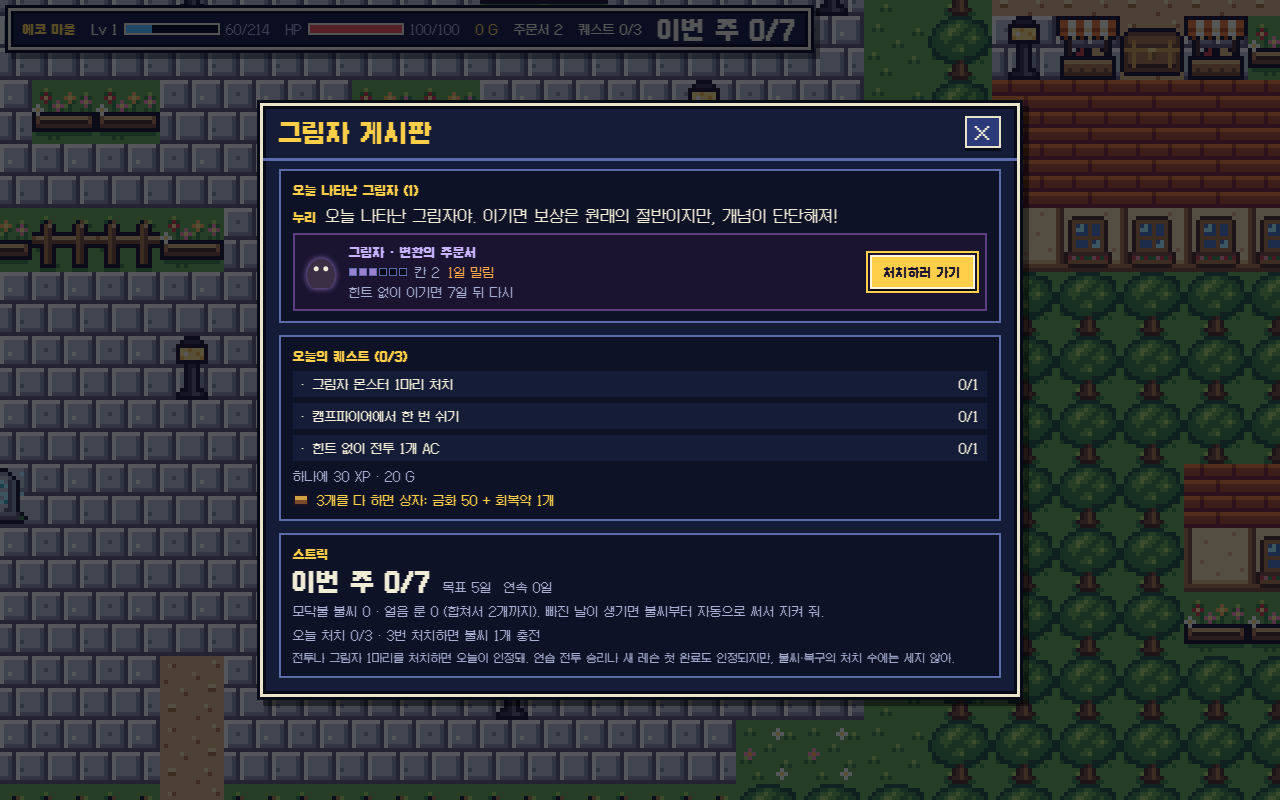
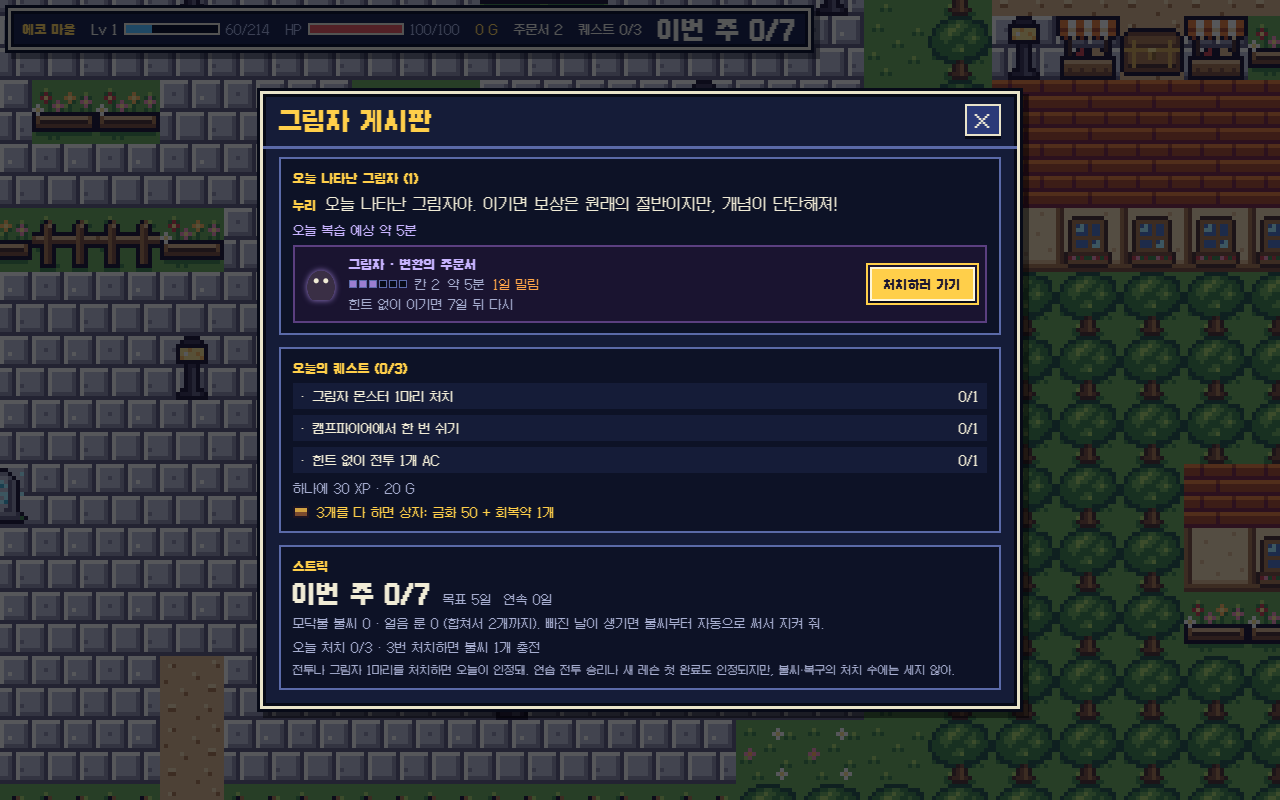
Phase 3 단위 3-E2(검증): 그림자 하루 계획 E2E, 보스 그림자 2페이즈 측정 spec(PYRPG_MEASURE_SHADOW=1), 화면 기록(engine-e2-*.png)

Changed region(s): [[0.1875, 0.0938, 0.8125, 0.9062], [0.75, 0.4688, 0.7812, 0.5938]]

diff --git a/tests/e2e/systems.spec.ts b/tests/e2e/systems.spec.ts
@@ -327,6 +327,137 @@ test.describe.serial("시스템 화면(단위 3-1)", () => {
   });
 });
 
+/** 기기 시간으로 n일 전(새벽 4시 경계) */
+function daysAgo(n: number): string {
+  const d = new Date();
+  if (d.getHours() < 4) d.setDate(d.getDate() - 1);
+  d.setDate(d.getDate() - n);
+  return `${d.getFullYear()}-${String(d.getMonth() + 1).padStart(2, "0")}-${String(d.getDate()).padStart(2, "0")}`;
+}
+
+const AT_BOARD = async (page: Page) => {
+  const gate = await obj(page, "gate_well");
+  return { x: gate.x, y: gate.y - 1 };
+};
+
+async function openBoard(page: Page): Promise<void> {
+  await interact(page, "board_shadow");
+  await settle(page, ".board-modal");
+}
+
+test.describe.serial("그림자 하루 계획(단위 3-E2)", () => {
+  test("게시판: 예산 문구·대기·이름 없는 그림자, 이긴 뒤 정체 공개", async ({ page }) => {
+    test.setTimeout(240_000);
+    await boot(page);
+    await seedAndReload(page, {
+      lessons: ["L1-1", "L1-2", "L1-3"],
+      removed: ["gate_well", "m_P0102", "m_P0104"],
+      at: await AT_BOARD(page),
+      flags: ["trigger.r01.t_prologue", "companion.joined"],
+      patch: {
+        shadows: [
+          // 칸 3: 같은 개념에서 이미 푼 P0102만 후보 → 그 변형, 이름 숨김
+          { concept: "scroll.arith", problemId: "P0102", box: 3, due: daysAgo(2), purified: false, createdAt: "2026-09-01T00:00:00.000Z" },
+          { concept: "scroll.quick_ear", problemId: "P0104", box: 1, due: daysAgo(1), purified: false, createdAt: "2026-09-02T00:00:00.000Z" },
+          // 대표 문제 P0101을 아직 못 이김 → 대기
+          { concept: "scroll.convert", problemId: "P0101", box: 1, due: daysAgo(1), purified: false, createdAt: "2026-09-03T00:00:00.000Z" },
+        ],
+        quests: { date: "today", ids: ["rest-1", "codex-run-1", "lesson-1"], progress: [0, 0, 0], claimed: [false, false, false], chest: false },
+      },
+    });
+    const before = await save(page);
+    await openBoard(page);
+    await expect(page.locator(".shadow-card")).toHaveCount(2);
+    const anon = page.locator(".shadow-card.is-anonymous");
+    await expect(anon).toHaveCount(1);
+    await expect(anon.locator(".shadow-name")).toHaveText("이름 없는 그림자");
+    await expect(anon).toContainText("칸 3");
+    await expect(anon).toContainText("약 5분");
+    await expect(page.locator(".shadow-card:not(.is-anonymous) .shadow-name")).toContainText("그림자 · ");
+    await expect(page.locator(".shadow-budget")).toHaveText("오늘 복습 예상 약 11분");
+    await expect(page.locator(".shadow-pending")).toHaveCount(1);
+    await expect(page.locator(".shadow-pending")).toContainText("원래 몬스터를 이긴 다음 날부터");
+    await shot(page, "engine-e2-board.png");
+
+    // 이름 없는 그림자와 싸운다: 적 이름·제목·시작 대사에 주문서·원래 몬스터가 없다
+    await anon.locator(".board-fight").click();
+    await settle(page, ".battle-modal");
+    await expect(page.locator(".battle.is-shadow")).toBeVisible();
+    await expect(page.locator(".enemy-name")).toHaveText("이름 없는 그림자");
+    await expect(page.locator(".battle-title")).toHaveText("이름 없는 그림자");
+    expect(await page.locator(".battle").getAttribute("data-problem")).toMatch(/^P0102-v\d$/);
+    await expect(page.locator(".act-solution")).toBeHidden();
+    await typeCode(page, solution("P0102"));
+    await cast(page);
+    await expect(page.locator(".battle-banner.is-victory")).toBeVisible();
+    await page.locator(".banner-ok").click();
+    await settle(page, ".reward-modal");
+    await expect(page.locator(".reward-xp .reward-value")).toHaveText("+50 XP");
+    await expect(page.locator(".reward-shadow")).toContainText("정체");
+    await expect(page.locator(".reward-title")).toContainText("의 그림자");
+    await page.locator(".reward-ok").click();
+    await settle(page);
+    const s = await save(page);
+    expect(s.player.xp).toBe(before.player.xp + 50);
+    expect(s.history.at(-1)).toMatchObject({ shadow: true, concept: "scroll.arith", budgetMinutes: 5 });
+
+    // 다시 열면 치른 것만 빠지고, 오늘 치른 분량이 보인다
+    await openBoard(page);
+    await expect(page.locator(".shadow-card")).toHaveCount(1);
+    await expect(page.locator(".shadow-card.is-anonymous")).toHaveCount(0);
+    await expect(page.locator(".shadow-budget")).toHaveText("오늘 복습 예상 약 6분 · 오늘 치른 그림자 약 5분");
+    await closeAll(page);
+  });
+
+  test("칸 3 보스 그림자: 이름 없는 그림자로 2페이즈(공통 대사·시간 결계)까지, 보상 50 XP·25골드", async ({ page }) => {
+    test.setTimeout(300_000);
+    await boot(page);
+    await seedAndReload(page, {
+      lessons: ["L1-1", "L1-2", "L1-3", "L1-4"],
+      removed: ["gate_well"],
+      at: await AT_BOARD(page),
+      flags: ["trigger.r01.t_prologue", "companion.joined", "region.r01.clear"],
+      patch: {
+        problems: { P0105: { attempts: 1, knockouts: 0, solved: true, solvedAt: "2026-09-20T09:00:00.000Z", maxHintLevel: 0, solutionViewed: false } },
+        shadows: [{ concept: "scroll.arith", problemId: "P0105", box: 3, due: daysAgo(1), purified: false, createdAt: "2026-09-01T00:00:00.000Z" }],
+        quests: { date: "today", ids: ["rest-1", "codex-run-1", "lesson-1"], progress: [0, 0, 0], claimed: [false, false, false], chest: false },
+      },
+    });
+    const before = await save(page);
+    await openBoard(page);
+    await expect(page.locator(".shadow-card.is-anonymous")).toHaveCount(1);
+    await expect(page.locator(".shadow-card")).toContainText("약 15분");
+    await expect(page.locator(".shadow-budget")).toHaveText("오늘 복습 예상 약 15분");
+    await page.locator(".board-fight").click();
+    await settle(page, ".battle-modal");
+    await expect(page.locator(".battle.is-shadow.is-boss")).toBeVisible();
+    await expect(page.locator(".enemy-name")).toHaveText("이름 없는 그림자");
+    await expect(page.locator(".phase-label")).toContainText("1페이즈");
+    expect(await page.locator(".battle").getAttribute("data-problem")).toMatch(/^P0105-v\d$/);
+    await typeCode(page, solution("P0105"));
+    await cast(page);
+    // 2페이즈: 원래 보스의 시간 결계 테스트, 공통 대사
+    await expect(page.locator(".phase-label")).toContainText("2페이즈", { timeout: 60_000 });
+    await expect(page.locator(".phase-intro").last()).toBeVisible();
+    await expect(page.locator(".battle-msg")).toContainText("그림자가 시간 결계를 펼쳤어");
+    await shot(page, "engine-e2-anon-boss.png");
+    await cast(page);
+    await expect(page.locator(".battle-banner.is-victory")).toBeVisible({ timeout: 120_000 });
+    await page.locator(".banner-ok").click();
+    await settle(page, ".reward-modal");
+    await expect(page.locator(".reward-xp .reward-value")).toHaveText("+50 XP");
+    await expect(page.locator(".reward-gold .reward-value")).toHaveText("+25 G");
+    await expect(page.locator(".reward-shadow")).toContainText("정체");
+    await page.locator(".reward-ok").click();
+    await settle(page);
+    const s = await save(page);
+    expect(s.player.xp).toBe(before.player.xp + 50);
+    expect(s.player.gold).toBe(before.player.gold + 25);
+    expect(s.shadows[0].box).toBe(4);
+    expect(s.history.at(-1)).toMatchObject({ shadow: true, concept: "scroll.arith", budgetMinutes: 15 });
+  });
+});
+
 test.describe.serial("기록관의 안경(단위 3-4)", () => {
   const msgText = (page: Page) => page.locator(".battle-msg-text");
   const codexLink = (page: Page) => page.locator(".battle-msg-text .codex-link");

diff --git a/tests/e2e/shadow-measure.spec.ts b/tests/e2e/shadow-measure.spec.ts
@@ -1,0 +1,97 @@
+// 칸 3 이상 보스 그림자의 2페이즈 대기 시간 측정(design.md §7.6 보스 그림자, 결정 23 P-E11, 단위 3-E2).
+// 평소 전체 E2E에서는 건너뛴다. 다른 Playwright가 돌지 않을 때 단독으로:
+//
+//   PYRPG_MEASURE_SHADOW=1 PW_PORT=4310 npx playwright test tests/e2e/shadow-measure.spec.ts
+//
+// 보스마다 칸 3 그림자 문제(변형 1페이즈 + 원래 2페이즈)를 만들어 실제 Pyodide로
+// (a) 첫 시전(2페이즈 입력 생성 포함) (b) 두 번째 시전(생성 캐시 사용) (c) slow.py 시전의 벽시계 시간을 잰다.
+// 측정마다 새 페이지(새 실행기, 빈 생성 캐시)에서 3번 재고 중앙값을 쓴다.
+// 제외 기준(P-E11): (a) 20초, (b) 10초, (c) 15초 가운데 하나라도 넘으면 SHADOW_PHASE2_EXCLUDE에 넣는다.
+import { expect, test, type Browser } from "@playwright/test";
+
+/* eslint-disable @typescript-eslint/no-explicit-any */
+const RUNS = 3;
+const LIMITS = { first: 20_000, second: 10_000, slow: 15_000 };
+
+interface Sample {
+  first: number;
+  second: number;
+  slow: number;
+  firstVerdicts: string;
+  secondVerdicts: string;
+  slowVerdicts: string;
+}
+
+async function measureOnce(browser: Browser, pid: string): Promise<Sample> {
+  const page = await browser.newPage();
+  try {
+    page.on("pageerror", (e) => console.log("pageerror:", e.message));
+    await page.goto("/dev/content.html");
+    await page.waitForFunction(() => (window as any).__runner !== undefined && (window as any).__shadow !== undefined);
+    await page.evaluate(() => (window as any).__runner.init());
+    return await page.evaluate(async (id: string) => {
+      const W = window as any;
+      const original = W.__content.regions.flatMap((r: any) => r.problems).find((p: any) => p.id === id);
+      const p = W.__shadow.shadowProblem(original, [], { twoPhase: true, anonymous: true });
+      const slowCode: string = W.__py[id]["slow.py"];
+      const verdicts = (r: any) => r.tests.map((t: any) => t.verdict).join(" ");
+      const cast = async (code: string) => {
+        const t0 = performance.now();
+        const r = await W.__runner.judge(p, code, { scope: "all", phase: 2 });
+        return { ms: performance.now() - t0, v: verdicts(r) };
+      };
+      const a = await cast(original.solution);
+      const b = await cast(original.solution);
+      const c = await cast(slowCode);
+      return { first: a.ms, second: b.ms, slow: c.ms, firstVerdicts: a.v, secondVerdicts: b.v, slowVerdicts: c.v };
+    }, pid);
+  } finally {
+    await page.close();
+  }
+}
+
+const median = (xs: number[]) => [...xs].sort((a, b) => a - b)[Math.floor(xs.length / 2)]!;
+
+test("보스 그림자 2페이즈 대기 시간(P-E11)", async ({ browser }) => {
+  test.skip(!process.env.PYRPG_MEASURE_SHADOW, "PYRPG_MEASURE_SHADOW=1일 때만 잰다");
+  test.setTimeout(60 * 60_000);
+  const page = await browser.newPage();
+  await page.goto("/dev/content.html");
+  await page.waitForFunction(() => (window as any).__content !== undefined);
+  const bosses: string[] = await page.evaluate(() =>
+    (window as any).__content.regions.flatMap((r: any) => r.problems).filter((p: any) => p.boss).map((p: any) => p.id),
+  );
+  await page.close();
+  const started = new Date();
+  const samples: Record<string, Sample[]> = {};
+  // 같은 보스를 연달아 재지 않게 바깥 고리를 반복 횟수로 둔다
+  for (let k = 0; k < RUNS; k++) {
+    for (const pid of bosses) {
+      const s = await measureOnce(browser, pid);
+      (samples[pid] ??= []).push(s);
+      console.log(`${pid} #${k + 1}: 첫 ${Math.round(s.first)} ms [${s.firstVerdicts}] / 두 번째 ${Math.round(s.second)} ms [${s.secondVerdicts}] / slow ${Math.round(s.slow)} ms [${s.slowVerdicts}]`);
+    }
+  }
+  const rows = bosses.map((pid) => {
+    const xs = samples[pid]!;
+    const m = { first: median(xs.map((x) => x.first)), second: median(xs.map((x) => x.second)), slow: median(xs.map((x) => x.slow)) };
+    const exclude = m.first > LIMITS.first || m.second > LIMITS.second || m.slow > LIMITS.slow;
+    return { pid, ...m, exclude, solutionAc: xs.every((x) => /^(AC ?)+$/.test(x.firstVerdicts) && /^(AC ?)+$/.test(x.secondVerdicts)), slowTle: xs.every((x) => x.slowVerdicts.includes("TLE")) };
+  });
+  const s = (ms: number) => (ms / 1000).toFixed(1);
+  console.log(
+    [
+      "",
+      `측정 시작 ${started.toISOString()}, 끝 ${new Date().toISOString()}, 페이지마다 ${RUNS}번의 중앙값(초)`,
+      "| 보스 | 첫 시전(생성 포함) | 두 번째 시전 | slow.py 시전 | 결정 |",
+      "|---|---|---|---|---|",
+      ...rows.map((r) => `| ${r.pid} | ${s(r.first)} | ${s(r.second)} | ${s(r.slow)} | ${r.exclude ? "제외(1페이즈만)" : "2페이즈 포함"} |`),
+      `SHADOW_PHASE2_EXCLUDE = [${rows.filter((r) => r.exclude).map((r) => `"${r.pid}"`).join(", ")}]`,
+    ].join("\n"),
+  );
+  // 측정이 뜻을 가지려면 모범답안은 AC, slow.py는 TLE여야 한다
+  for (const r of rows) {
+    expect.soft(r.solutionAc, `${r.pid} 모범답안 AC`).toBe(true);
+    expect.soft(r.slowTle, `${r.pid} slow.py TLE`).toBe(true);
+  }
+});

diff --git a/src/python/dev/contentPage.ts b/src/python/dev/contentPage.ts
@@ -8,6 +8,7 @@ import { diagnoseResult, ruleMatches } from "../diagnose";
 import { explainError, pickRule } from "../explain";
 import { budgetLimitMs, isTimeBarrier, testLimitMs, usesBudget } from "../limits";
 import { createPythonRunner } from "../runner";
+import { shadowProblem } from "../../systems/shadowBoard";
 
 function problemIdOf(path: string): { pid: string; file: string } {
   const m = /problems\/([^/]+)\/([^/]+)$/.exec(path);
@@ -60,6 +61,8 @@ Object.assign(window as object, {
     testLimitMs,
     budgetLimitMs,
   },
+  // 칸 3 이상 보스 그림자의 2페이즈 측정(tests/e2e/shadow-measure.spec.ts, 단위 3-E2)
+  __shadow: { shadowProblem },
 });
 
 const status = document.getElementById("status")!;
